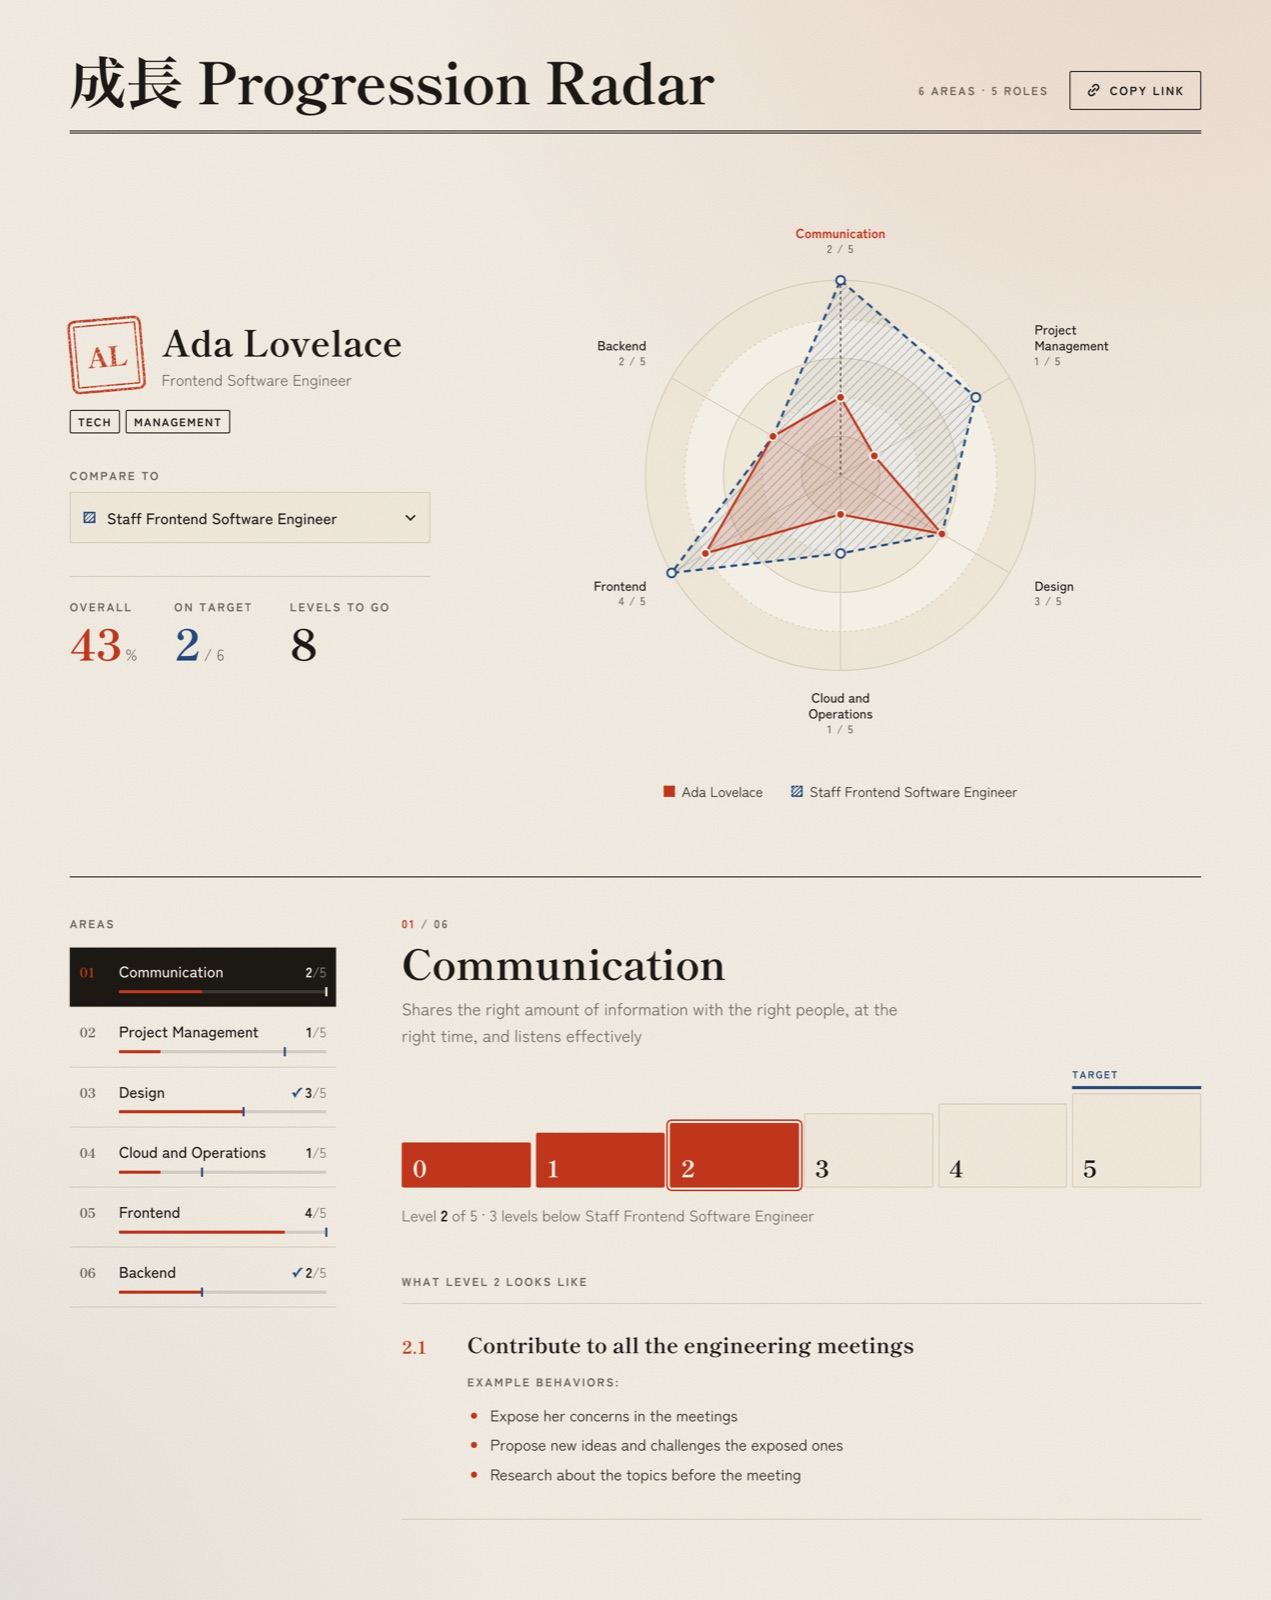
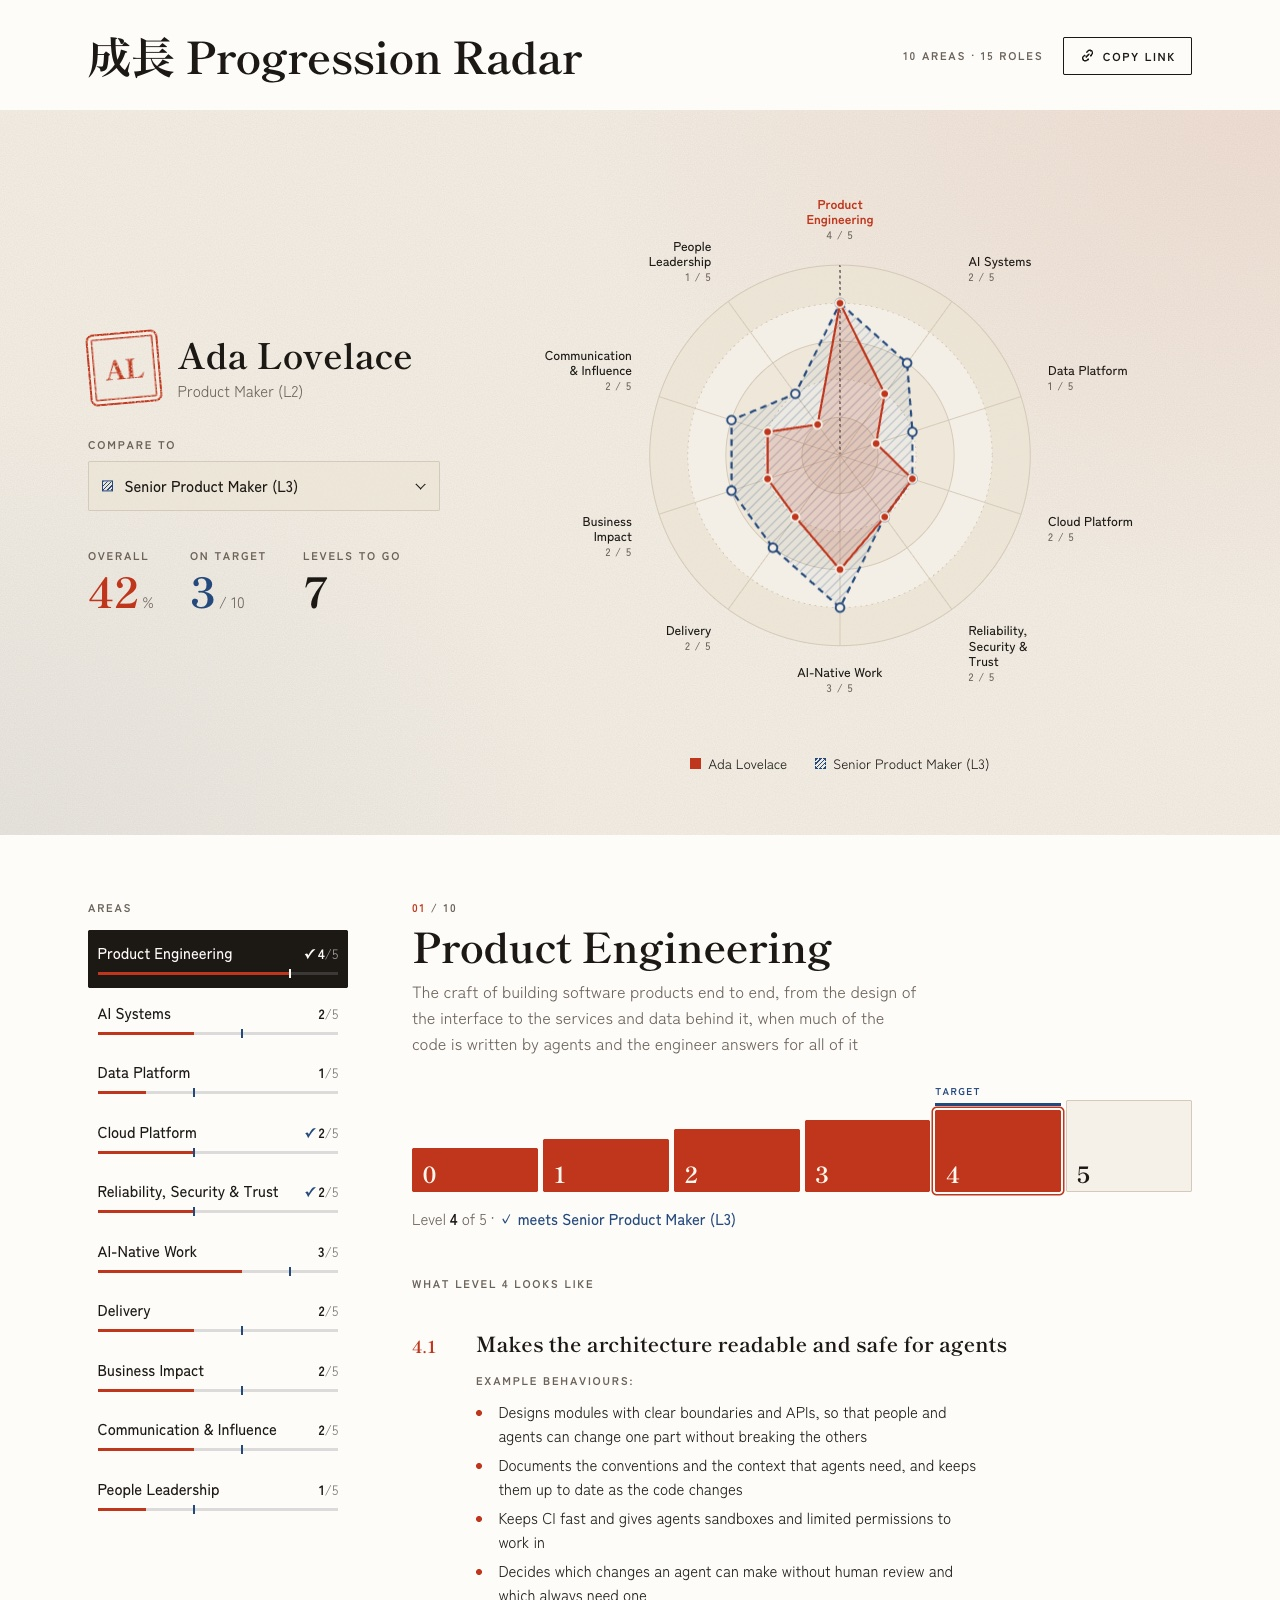
readme update

diff --git a/docs/DESIGN.md b/docs/DESIGN.md
@@ -352,7 +352,7 @@ Run `npm run dev` and look at:
 - a re-brand: uncomment a few variables in a copy of `config.example/theme.css` placed in `config/`, including `--texture: none`, and check nothing is
   hard-coded.
 
-Then run `npm test -- --run` and `npm run build`. If the default look changes visibly, update `docs/screenshot.jpg`.
+Then run `npm test -- --run` and `npm run build`. If the default look changes visibly, update `docs/screenshot.jpg` and the README animation, `docs/demo.gif`.
 
 ### Avoid
 

diff --git a/README.md b/README.md
@@ -12,7 +12,7 @@ machine.
 
 Live demo: [https://progression-radar.netlify.app](https://progression-radar.netlify.app/)
 
-![Progression Radar comparing a person with the Staff Frontend Software Engineer role](docs/screenshot.jpg)
+![Progression Radar comparing a person with a role, changing the role and raising levels](docs/demo.gif)
 
 ## What you can do with this tool
 
